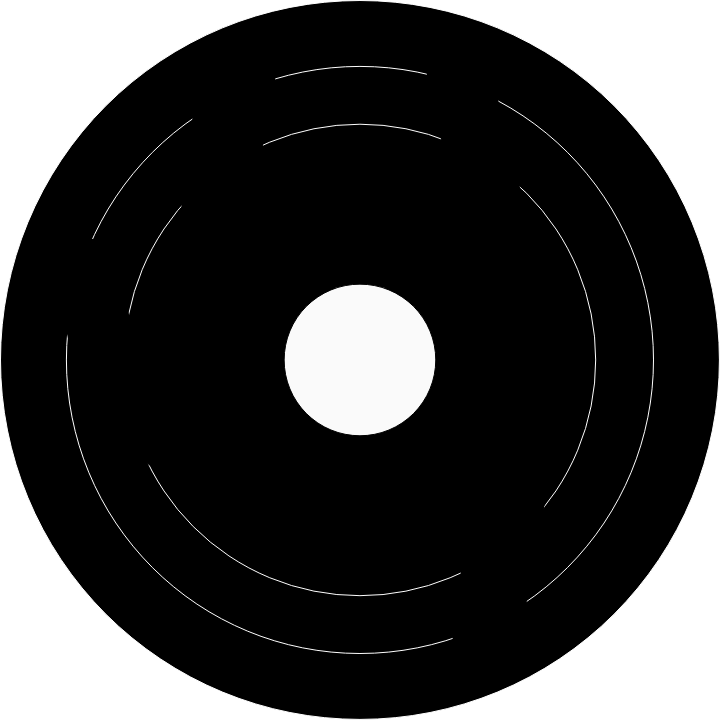
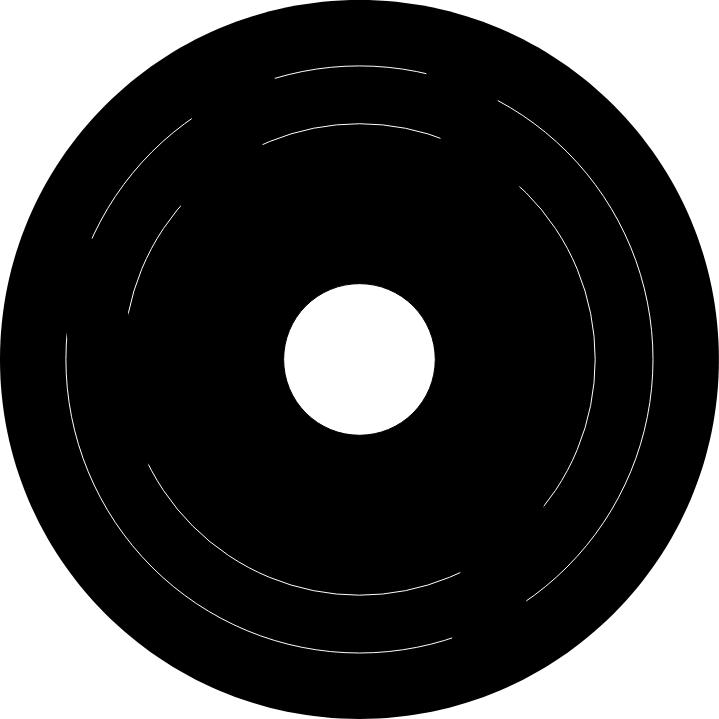
music animation vynil finished

diff --git a/sources/scripts/script.js b/sources/scripts/script.js
@@ -1,5 +1,19 @@
 // **********************************      Variables     *******************************
 
+const sizes = {}
+sizes.width = window.innerWidth
+sizes.height = window.innerHeight
+
+let vynilContainer = document.querySelector(".vynil--container")
+let vynil = document.querySelector(".vynil--container__vynil")
+let titleMusic = document.querySelector(".section--music h2")
+let FixedRatio = (sizes.height - vynil.getBoundingClientRect().height) / 2
+
+// ratio for music animation to have the title and img at the middle of window
+vynil.style.top = `${FixedRatio}px`
+titleMusic.style.top = `${(sizes.height - titleMusic.getBoundingClientRect().height) / 2}px`
+
+
 
 // **********************************      Functions    *******************************
 
@@ -19,7 +33,7 @@ function parralax2(element, distance, speed, translate) {
     } else {
         const item = document.querySelector(element);
         const ratio = distance * speed;
-        item.style.transform = "translateY(-50%) rotate(" + ratio + "deg)";
+        item.style.transform = "rotate(" + ratio + "deg)";
     }
 }
 
@@ -56,18 +70,37 @@ function revealAnimation(target, ratio, classAdd) {
 // **********************************      IHM     *******************************
 
 
+
+// event resize window
+window.addEventListener('resize', () => {
+    sizes.width = window.innerWidth
+    sizes.height = window.innerHeight
+})
+
 revealAnimation(".reveal", .5, 'reveal-visible')
+
 
 window.addEventListener('scroll', function () {
     parralax('.section--description p', window.scrollY, -0.15);
     parralax2('.icons-skills', window.scrollY, -0.15, false)
-    parralax2('.music__vynil', window.scrollY, 0.15, false)
+    parralax2('.vynil--container__vynil', window.scrollY, 0.15, false)
 
 
-    // parralax('.article--analytics', window.scrollY, -0.05);
-    // parralax('.article--integration', window.scrollY, -0.05);
-    // parralax('.article--jeux', window.scrollY, -0.05);
-    // parralax('.article--prototype', window.scrollY, -0.05);
+
+
+
+
+    if (vynilContainer.getBoundingClientRect().top < 0 && vynilContainer.getBoundingClientRect().top > (0 - vynilContainer.getBoundingClientRect().height)) {
+        if (sizes.width < 2200) {
+            titleMusic.style.transform = `translateX(${(window.scrollY - 6700) * 0.3}rem)`
+        } else {
+            titleMusic.style.transform = `translateX(${(window.scrollY - 7500) * 0.3}rem)`
+        }
+
+    }
+
+
+
 });
 
 
@@ -89,6 +122,24 @@ window.addEventListener('scroll', function () {
 
 
 
+
+
+
+
+
+
+
+
+
+
+
+
+
+
+
+
+
+// background transition to black or whrite
 
 let body = document.querySelector("body")
 var numSteps = 250.0;
@@ -122,14 +173,14 @@ function buildThresholdList() {
 function handleIntersect(entries, observer) {
     entries.forEach(function (entry) {
         if (entry.intersectionRatio > prevRatio) {
-            console.log(count);
+            // console.log(count);
             body.style.backgroundColor = `rgb(${count},${count},${count})`
             if (count > 0) {
                 count = count - 4
             }
 
         } else {
-            console.log(count);
+            // console.log(count);
             body.style.backgroundColor = `rgb(${count},${count},${count})`
             if (count < 250) {
                 count = count + 3

diff --git a/sources/styles/sass/style.scss b/sources/styles/sass/style.scss
@@ -434,16 +434,32 @@ header {
 // **********************************     section  musics   ************************************
 
 .section--music {
-    height: 2100px;
+    height: 4000px;
     position: relative;
     padding: 5%;
-    // background-color: red;
+
+    @include for-big-desktop-up {
+        height: 4300px;
+    }
+
+    @include for-big-desktop-up-27 {
+        height: 4800px;
+    }
 
     .music--title {
         font-size: 15rem;
         font-family: "Gilroy-Bold";
-        margin-top: 300px;
-        margin-bottom: 400px;
+        width: 100vw;
+        position: sticky;
+        transform: translateX(-110rem);
+
+        @include for-desktop-down {
+            font-size: 12rem;
+        }
+
+        @include for-tablet-landscape-down {
+            font-size: 10rem;
+        }
     }
 
     .music--title__music {
@@ -452,14 +468,42 @@ header {
     }
 
 
-    .music__vynil {
+    .vynil--container {
         width: 600px;
+        background-color: rebeccapurple;
+        height: 2500px;
         position: absolute;
-        top: 410px;
-        left: -306px;
+        top: 131px;
+        left: -300px;
+
+        @include for-big-desktop-up {
+            width: 700px;
+            height: 2800px;
+        }
+
+        @include for-big-desktop-up-27 {
+            width: 800px;
+            height: 2600px;
+        }
+
+        .vynil--container__vynil {
+            width: 100%;
+            position: sticky;
+            z-index: 1;
+        }
     }
+
+    p {
+        position: absolute;
+        bottom: 5%;
+        margin-right: 5%;
+    }
+
+
 }
 
+// width: 720px;
+//     position: absolute;
 
 
 

diff --git a/sources/styles/css/style.css b/sources/styles/css/style.css
@@ -714,25 +714,70 @@ header .circle {
 }
 
 .section--music {
-  height: 2100px;
+  height: 4000px;
   position: relative;
   padding: 5%;
+}
+@media (min-width: 1800px) {
+  .section--music {
+    height: 4300px;
+  }
+}
+@media (min-width: 2200px) {
+  .section--music {
+    height: 4800px;
+  }
 }
 .section--music .music--title {
   font-size: 15rem;
   font-family: "Gilroy-Bold";
-  margin-top: 300px;
-  margin-bottom: 400px;
+  width: 100vw;
+  position: sticky;
+  transform: translateX(-110rem);
+}
+@media (max-width: 1200px) {
+  .section--music .music--title {
+    font-size: 12rem;
+  }
+}
+@media (max-width: 900px) {
+  .section--music .music--title {
+    font-size: 10rem;
+  }
 }
 .section--music .music--title__music {
   color: white;
   text-shadow: -2px 0 black, 0 2px black, 2px 0 black, 0 -2px black;
 }
-.section--music .music__vynil {
+.section--music .vynil--container {
   width: 600px;
+  background-color: rebeccapurple;
+  height: 2500px;
   position: absolute;
-  top: 410px;
-  left: -306px;
+  top: 131px;
+  left: -300px;
+}
+@media (min-width: 1800px) {
+  .section--music .vynil--container {
+    width: 700px;
+    height: 2800px;
+  }
+}
+@media (min-width: 2200px) {
+  .section--music .vynil--container {
+    width: 800px;
+    height: 2600px;
+  }
+}
+.section--music .vynil--container .vynil--container__vynil {
+  width: 100%;
+  position: sticky;
+  z-index: 1;
+}
+.section--music p {
+  position: absolute;
+  bottom: 5%;
+  margin-right: 5%;
 }
 
 footer {

diff --git a/index.html b/index.html
@@ -149,8 +149,12 @@
 
         <section class="section--music">
 
-            <h2 class="music--title"> <span class="music--title__music">Music</span> is my sanity</h2>
-            <img class="music__vynil" src="sources/icones/vynil.png" alt="image vynil">
+            <!-- <h2 class="music--title"> <span class="music--title__music">Music</span> is my sanity</h2> -->
+            <div class="vynil--container">
+                <img class="vynil--container__vynil" src="sources/icones/vynil.png" alt="image vynil">
+                <h2 class="music--title"> <span class="music--title__music">Music</span> is my sanity</h2>
+            </div>
+
 
             <p>La musique est ma grande passion depuis 3 ans. Je passe une grande partie de mon temps libre à en faire.
                 Mixer me permet d’exprimer ma créativité. Mes services ont déjà été sollicités pour plusieurs
